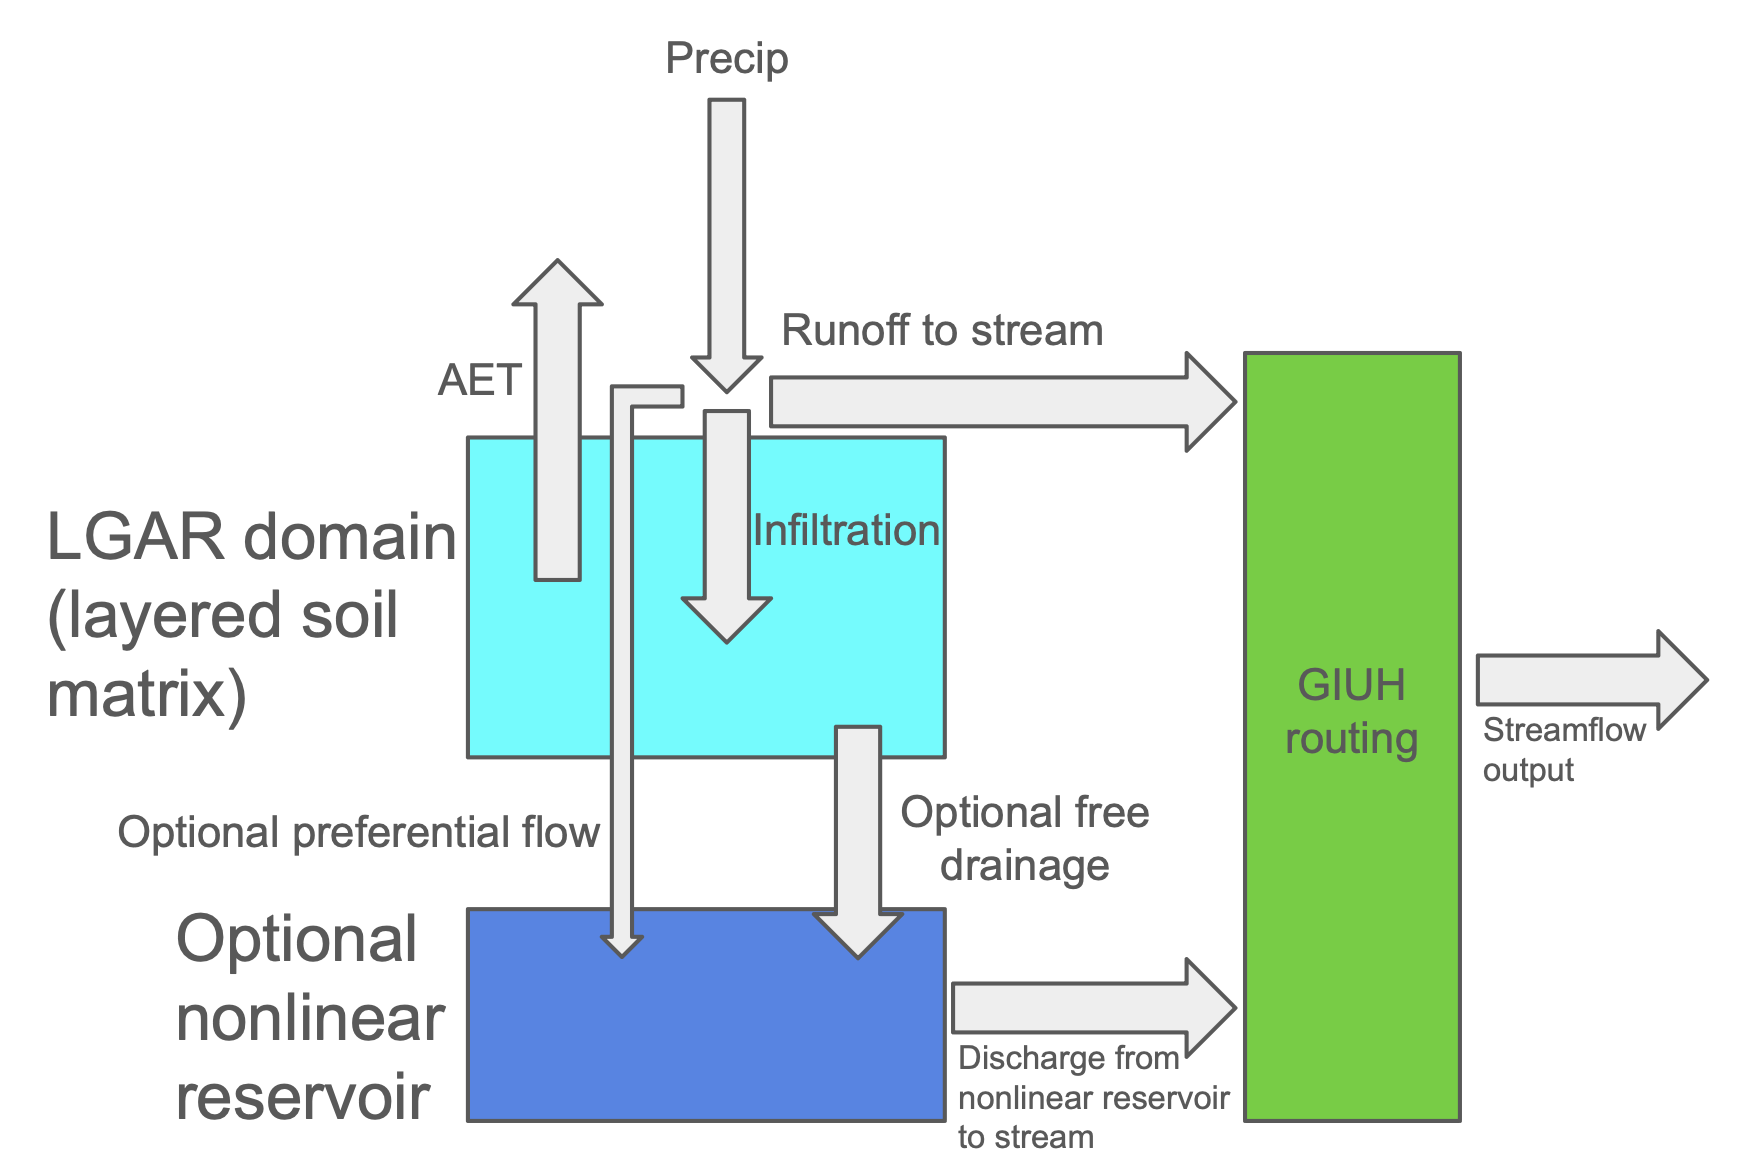
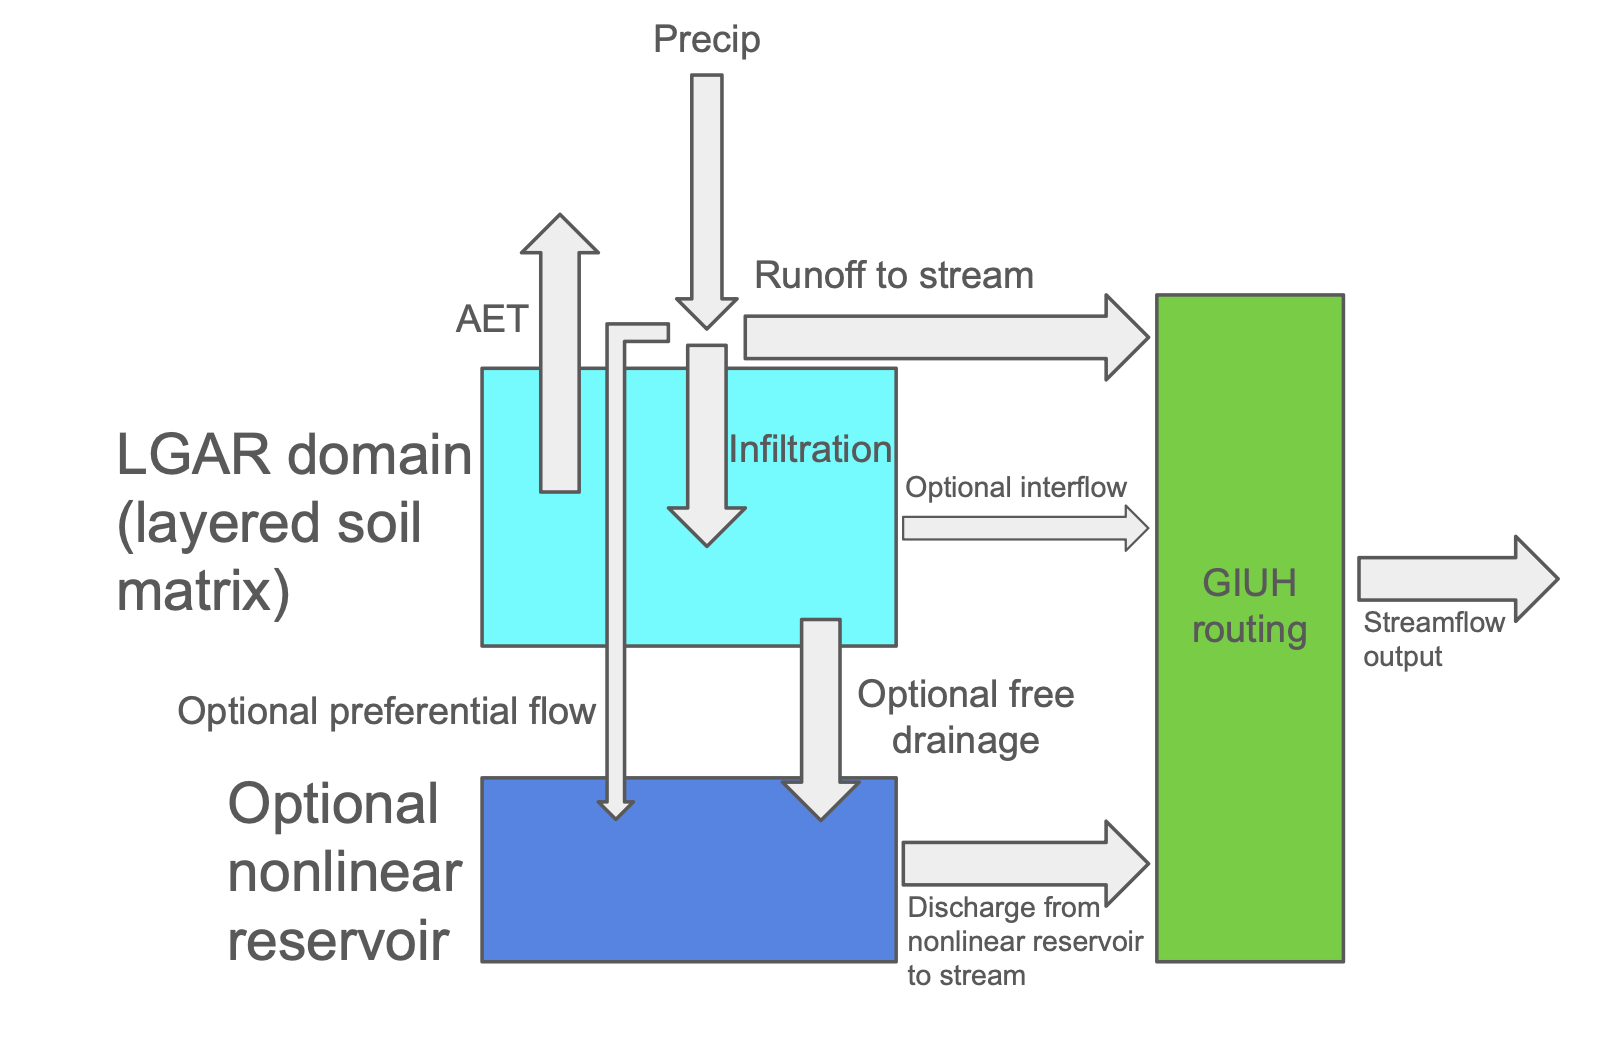
updating documentation to include lateral flow

Changed region(s): [[0.0312, 0.0312, 0.9988, 1.0]]

diff --git a/data/README.md b/data/README.md
@@ -14,6 +14,8 @@ It is recommended to calibrate:
 - `frac_to_CR`  
 - `spf_factor`
 
+If lateral flow, or interflow, from LGAR wetting fronts is part of the intended conceptual model, `lateral_flow_psi_threshold` and `lateral_flow_factor` can also be calibrated. These two parameters must be used together; omitting both disables lateral flow.
+
 Note that it is not necessarily recommended to calibrate maximum ponded head or theta_r.
 
 | Parameter name | Units |  Physical limits  | Range tested for stability | Applies to individual soil layers or entire model domain | Description |
@@ -25,10 +27,12 @@ Note that it is not necessarily recommended to calibrate maximum ponded head or 
 | Ks | cm/h | Ks > 0 | 0.0001 < K_s < 100 | Soil layer | Ks is the saturated hydraulic conductivity of a soil. Note that in nature, expected values of Ks are distributed logarithmically, so calibrating on the log of Ks rather than Ks directly is likely a better choice for most calibration algorithms. This is set per soil layer, in the .dat file in the data directory.|
 | ponded_head_max | cm | ponded_head_max >= 0 | 0 <= ponded_head_max <= 5 | Entire model domain | This is the maximum amount of ponded water that is allowed to accumulate on the soil surface. While stability tests have only included a maximum value of 5 cm, any value greater than or equal to 0 should be acceptable. A common choice will be 0. This parameter can be set in the config file.  |
 | field_capacity_psi | cm | 0 < field_capacity_psi, <br>field_capacity_psi < wilting_point_psi | 10 < field_capacity_psi < 500 | Entire model domain | This is the wilting point of the model domain, expressed as a capillary head. Together with wilting_point_psi, the field capacity is used to determine the intensity of the reduction of PET to become AET. The numbers 10.3 cm and 516.6 cm correspond to pressures of 1/100 atm and 1/2 atm of water. Note that the model generally uses absolute values of capillary head; in this case, these limits are absolute values of negative numbers and physically represent unsaturated soil. While field capacity will vary per soil type, we use a single value for the entire model domain, following the method for PET->AET correction used by HYDRUS. This parameter can be set in the config file. |
-| a | cm^(1-b) h^-1 | 0 < a | 1E-8 < a < 1E-1 | Applies to nonlinear reservoir | As of this writing (27 June 2025), CASAM fundamentally has two different types of water storage: water stored in the vadose zone that does not contribute to streamflow, and water stored in a nonlinear reservoir that does contribute to streamflow. The nonlinear reservoir has an input of simple bypass through the vadose zone (controlled by frac_to_CR and spf_factor). The nonlinear reservoir releases water to the stream at a rate of a*S^b, where S is the water stored in the reserovir in cm, and a and b are nonlinear reservoir parameters. Note that the units of a depend on the value of b. Defaults to 0. Also note that because a, b, and frac_to_CR all default to 0, all of these must be specified in the config file in order to enable the nonlinear reservoir. |
-| b | - | - | 0.01 < b < 5 | Applies to nonlinear reservoir | As of this writing (27 June 2025), CASAM fundamentally has two different types of water storage: water stored in the vadose zone that does not contribute to streamflow, and water stored in a nonlinear reservoir that does contribute to streamflow. The nonlinear reservoir has an input of simple bypass through the vadose zone (controlled by frac_to_CR and spf_factor). The nonlinear reservoir releases water to the stream at a rate of a*S^b, where S is the water stored in the reserovir in cm, and a and b are nonlinear reservoir parameters. Defaults to 0.  |
-| frac_to_CR | - | 0 <= frac_to_CR <= 1 | 1E-4 <= frac_to_CR <= 1 - 1E-4 | Applies to nonlinear reservoir | storage that contributes directly to streamflow | Simple bypass of water at the soil surface to the nonlinear conceptual reservoir will occur when the most superficial surface wetting front achieves the theta_e value of its layer times spf_factor. When this occurs, the amount of water sent to the nonlinear reservoir is equal to the precipitation plus any ponded water times frac_to_CR. This is a rather simple representation of preferential flow that intends to simulate the episodic nature of streamflow events in arid or semi arid environments. Note that either all or none of a, b, and frac_to_CR must be specified. If none are specified then the model will not simulate a nonlinear reservoir. Further, as of this writing (27 June 2025), fluxes from the lower boundary of the vadose zone do not contribute to the nonlinear reservoir and are said to be lost to deep GW. These fluxes should be rare in arid or semi arid environments and represent a wetting front partially crossing the model lower boundary, so the fraction that did technically contributes to fluxes through LGAR's lower boundary. Defaults to 0. Note that if a second reservoir is desired, a_slow, b_slow, and frac_slow can all be specified with the same ranges as a, b, and frac_to_CR, respectively, with the expection that frac_slow can not equal exactly 0.|
-| spf_factor | - | 0.0 <= spf_factor <= 1 | 0.1 <= spf_factor <= 1 | Applies to nonlinear reservoir | storage that contributes directly to streamflow | Simple bypass of surface water to the nonlinear reservoir will occur when the most superficial wetting front achieves the theta_e value of its layer times spf_factor. When this occurs, the amount of water sent to the nonlinear reservoir is equal to the precipitation plus any ponded water times frac_to_CR. This is a rather simple representation of preferential flow that intends to simulate the episodic nature of streamflow events in arid or semi arid environments. Defaults to 0.98. Specified in the config file. |
+| a | cm^(1-b) h^-1 | 0 < a | 1E-8 < a < 1E-1 | Applies to nonlinear reservoir | The nonlinear reservoir is one route by which catchment water storage contributes to streamflow. The nonlinear reservoir has an input of simple bypass through the vadose zone, controlled by frac_to_CR and spf_factor, and optionally free drainage if `free_drainage_to_CR=true` in the config file. The nonlinear reservoir releases water to the stream at a rate of a*S^b, where S is the water stored in the reservoir in cm, and a and b are nonlinear reservoir parameters. Note that the units of a depend on the value of b. Defaults to 0. Also note that because a, b, and frac_to_CR all default to 0, all of these must be specified in the config file in order to enable the nonlinear reservoir. |
+| b | - | - | 0.01 < b < 5 | Applies to nonlinear reservoir | The nonlinear reservoir is one route by which catchment water storage contributes to streamflow. The nonlinear reservoir has an input of simple bypass through the vadose zone, controlled by frac_to_CR and spf_factor, and optionally free drainage if `free_drainage_to_CR=true` in the config file. The nonlinear reservoir releases water to the stream at a rate of a*S^b, where S is the water stored in the reservoir in cm, and a and b are nonlinear reservoir parameters. Defaults to 0. |
+| frac_to_CR | - | 0 <= frac_to_CR <= 1 | 1E-4 <= frac_to_CR <= 1 - 1E-4 | Applies to nonlinear reservoir | Simple bypass of water at the soil surface to the nonlinear conceptual reservoir will occur when the most superficial surface wetting front achieves the theta_e value of its layer times spf_factor. When this occurs, the amount of water sent to the nonlinear reservoir is equal to the precipitation plus any ponded water times frac_to_CR. This is a simple representation of preferential flow that intends to simulate the episodic nature of streamflow events in arid or semi arid environments. Note that either all or none of a, b, and frac_to_CR must be specified. If none are specified then the model will not simulate a nonlinear reservoir. Free drainage contributes to the nonlinear reservoir only when `free_drainage_enabled=true` and `free_drainage_to_CR=true`; otherwise lower boundary free drainage is accounted as percolation/recharge leaving the LGAR domain. Defaults to 0. Note that if a second reservoir is desired, a_slow, b_slow, and frac_slow can all be specified with the same ranges as a, b, and frac_to_CR, respectively, with the exception that frac_slow can not equal exactly 0.|
+| spf_factor | - | 0.0 <= spf_factor <= 1 | 0.1 <= spf_factor <= 1 | Applies to nonlinear reservoir | Simple bypass of surface water to the nonlinear reservoir will occur when the most superficial wetting front achieves the theta_e value of its layer times spf_factor. When this occurs, the amount of water sent to the nonlinear reservoir is equal to the precipitation plus any ponded water times frac_to_CR. This is a simple representation of preferential flow that intends to simulate the episodic nature of streamflow events in arid or semi arid environments. Defaults to 0.98. Specified in the config file. |
+| lateral_flow_psi_threshold | cm | lateral_flow_psi_threshold >= 0 | lateral_flow_psi_threshold >= 0 | Entire model domain | Lateral flow/interflow from LGAR wetting fronts is enabled only when both lateral_flow_psi_threshold and lateral_flow_factor are specified. A wetting front can contribute lateral flow when its capillary head is less than or equal to this threshold. LGAR uses positive absolute capillary head values, so smaller psi values represent wetter conditions. In log_mode, this parameter is interpreted as a log10 value before validation. Defaults to disabled. |
+| lateral_flow_factor | - | 1.E-4 <= lateral_flow_factor <= 1.E4 | 1.E-4 <= lateral_flow_factor <= 1.E4 | Entire model domain | Lateral flow/interflow from LGAR wetting fronts is enabled only when both lateral_flow_psi_threshold and lateral_flow_factor are specified. Candidate lateral flow for an eligible wetting front is proportional to K(theta) times lateral_flow_factor, scaled by the fraction of the LGAR domain represented by that front. Lateral flow is removed from LGAR storage and routed through the GIUH with surface runoff, so water stored in the LGAR domain can conditionally contribute to streamflow when this process is enabled. In log_mode, this parameter is interpreted as a log10 value before validation. Defaults to disabled. |
 
 Parameters that are specified per soil layer can either be scalar values with double precision (in the event the model is run with 1 layer) or vectors of doubles (in the event that the model is run with more than 1 layer), whereas parameters that are specified for the entire model domain are scalars with double precision. 
 
@@ -52,4 +56,3 @@ Below is a table of parameters for soils from the HYDRUS soils catalog, which ca
 | Sandy Clay          | 0.1   | 0.38 | 0.027 | 1.23 | 0.12        |
 | Silty Clay          | 0.07  | 0.36 | 0.005 | 1.09 | 0.02        |
 | Clay                | 0.068 | 0.38 | 0.008 | 1.09 | 0.2         |
-

diff --git a/configs/README.md b/configs/README.md
@@ -3,6 +3,8 @@ Example configuration files are provided in this directory. To build and run the
 
 A detailed description of the parameters for model configuration (i.e., initialize/setup) is provided below. 
 
+CASAM streamflow can be produced by surface runoff routed through the GIUH, by optional nonlinear conceptual reservoir outflow, and by optional lateral flow, or interflow, from LGAR wetting fronts. When lateral flow is disabled, water stored in the LGAR vadose zone domain does not directly contribute to streamflow except through configured lower boundary or bypass pathways. When lateral flow is enabled, eligible wetting fronts can lose water laterally, and that lateral flow volume is routed through the GIUH with surface runoff.
+
 
 | Variable | Datatype |  Limits  | Units | Role | Process | Description |
 | -------- | -------- | ------ | ----- | ---- | ------- | ----------- |
@@ -27,14 +29,16 @@ A detailed description of the parameters for model configuration (i.e., initiali
 | adaptive_timestep | Boolean | true, false | - | adaptive timestep flag | impacts timestep | If set to true, LGAR will use an internal adaptive timestep, and the above timestep is used as a minimum timestep (recommended value of 300 seconds). The adaptive timestep will never be larger than the forcing resolution. If set to false, LGAR will use the above specified timestep as a fixed timestep. Testing indicates that setting this value to true substantially decreases runtime while negligibly changing the simulation. We recommend this to be set to true. |
 | free_drainage_enabled | Boolean | true, false | - | controls lower boundary condition | affects recharge | If free_drainage_enabled is true, then free drainage will be enabled as the lower boundary condition, where fluxes from the vadose zone to groundwater are controlled by the hydraulic conductivity at the bottom of the model domain. If free_drainage_enabled is set to false, then the lower boundary condition will be no flow. If LGAR is used in an area with substantially more PET than precipitation, the choice of no flow vs free drainage should be less impactful, because the majority of water that leaves the vadose zone will do so as AET. Defaults to false.|
 | free_drainage_to_CR | Boolean | true, false | - | controls lower boundary condition | affects recharge | If this is set to true, then free drainage water will contribute to the conceptual reservoir. Defaults to false.|
+| lateral_flow_psi_threshold | double (scalar) | >=0 | cm | parameter for wetting front lateral flow/interflow | vadose storage that contributes directly to streamflow | Lateral flow is enabled only when both lateral_flow_psi_threshold and lateral_flow_factor are specified. A wetting front can contribute lateral flow when its capillary head is less than or equal to this threshold. LGAR uses positive absolute capillary head values, so smaller psi values represent wetter conditions. Aliases accepted by the config parser are lateral_flow_psi_threshold_cm and lateral_flow_threshold_psi. Defaults to disabled.|
+| lateral_flow_factor | double (scalar) | 1.E-4 <= lateral_flow_factor <= 1.E4 | - | parameter for wetting front lateral flow/interflow | vadose storage that contributes directly to streamflow | Lateral flow is enabled only when both lateral_flow_psi_threshold and lateral_flow_factor are specified. Candidate lateral flow for an eligible wetting front is proportional to K(theta) times lateral_flow_factor, scaled by the fraction of the LGAR domain represented by that front. Lateral flow is removed from LGAR storage and routed through the GIUH with surface runoff. Defaults to disabled.|
 | mbal_tol | double (scalar) | >0 | cm | mass balance error resulting from a substep that will trigger a model crash | mass balance accounting | If the mass balance error is greater than this number in a single substep, then the model will abort. Global mass balance errors over the course of year long simulations (i.e. the sum of all mass balance errors over the course of a long simulation) tend to be small, where a value greater than 1E-4 cm tends to be rare, occuring less than 1 in 10000 prameter sets. LGAR in theory should both be mass conservative, however the presence of unlikely but possible edge cases can cause mass balance errors. Flux caching can also cause small mass balance errors. While the model will usually converge with a small mbal_tol value, if general convergence is desired across a large number of parameter sets / forcing datasets, then we recommend that this value is not specified and therefore the default value of 1E1cm will be used. |
 | PET_affects_precip | Boolean | true, false | - | specifies whether PET is subtracted from precip | forcing data manipulation | If enabled, then PET will be subtracted from precipitation. Defaults to false.|
-| a | double (scalar) | 1E-8 < a < 1E-1 | cm^(1-b) h^-1 | parameter for nonlinear reservoir | storage that contributes directly to streamflow | CASAM fundamentally has two different types of water storage: water stored in the vadose zone that does not contribute to streamflow, and water stored in a nonlinear reservoir that does contribute to streamflow. The nonlinear reservoir has an input of simple bypass through the vadose zone (controlled by frac_to_CR and spf_factor), and free drainage if desired. The nonlinear reservoir releases water to the stream at a rate of a*S^b, where S is the water stored in the reserovir in cm, and a and b are nonlinear reservoir parameters. Note that the units of a depend on the value of b. Defaults to 0.|
-| b | double (scalar) | 0.01 < b < 5 | - | parameter for nonlinear reservoir | storage that contributes directly to streamflow | CASAM fundamentally has two different types of water storage: water stored in the vadose zone that does not contribute to streamflow, and water stored in a nonlinear reservoir that does contribute to streamflow. The nonlinear reservoir has an input of simple bypass through the vadose zone (controlled by frac_to_CR and spf_factor), and free drainage if desired. The nonlinear reservoir releases water to the stream at a rate of a*S^b, where S is the water stored in the reserovir in cm, and a and b are nonlinear reservoir parameters. Defaults to 0.|
+| a | double (scalar) | 1E-8 < a < 1E-1 | cm^(1-b) h^-1 | parameter for nonlinear reservoir | storage that contributes directly to streamflow | The nonlinear reservoir is one route by which catchment water storage contributes to streamflow. Its input can include simple bypass through the vadose zone, controlled by frac_to_CR and spf_factor, and free drainage if desired. The nonlinear reservoir releases water to the stream at a rate of a*S^b, where S is the water stored in the reservoir in cm, and a and b are nonlinear reservoir parameters. Note that the units of a depend on the value of b. Defaults to 0.|
+| b | double (scalar) | 0.01 < b < 5 | - | parameter for nonlinear reservoir | storage that contributes directly to streamflow | The nonlinear reservoir is one route by which catchment water storage contributes to streamflow. Its input can include simple bypass through the vadose zone, controlled by frac_to_CR and spf_factor, and free drainage if desired. The nonlinear reservoir releases water to the stream at a rate of a*S^b, where S is the water stored in the reservoir in cm, and a and b are nonlinear reservoir parameters. Defaults to 0.|
 | frac_to_CR | double (scalar) | 0.0 <= frac_to_CR <= 1 | - | parameter for nonlinear reservoir | storage that contributes directly to streamflow | Simple bypass of water at the soil surface to the nonlinear conceptual reservoir will occur when the most superficial surface wetting front achieves the theta_e value of its layer times spf_factor. When this occurs, the amount of water sent to the nonlinear reservoir is equal to the precipitation plus any ponded water times frac_to_CR. This is a rather simple representation of preferential flow that intends to simulate the episodic nature of streamflow events in arid or semi arid environments. Note that either all or none of a, b, and frac_to_CR must be specified. If none are specified then the model will not simulate a nonlinear reservoir. Defaults to 0.|
 | spf_factor | double (scalar) | 0.1 <= spf_factor <= 1 | - | parameter for fluxes to nonlinear reservoir | storage that contributes directly to streamflow | Simple bypass of surface water to the nonlinear reservoir will occur when the most superficial wetting front achieves the theta_e value of its layer times spf_factor. When this occurs, the amount of water sent to the nonlinear reservoir is equal to the precipitation plus any ponded water times frac_to_CR. This is a rather simple representation of preferential flow that intends to simulate the episodic nature of streamflow events in arid or semi arid environments. Defaults to 0.98. |
-| allow_flux_caching | Boolean | true, false | - | trades a small amount of accuracy for a lot of speed | flux caching | During dry periods, it is often the case that wetting fronts will move very slowly and AET will be significantly less than PET. In these cases, in the context of streamflow simulation, it is not efficient to recompute fluxes and soil moisture dynamics for each time step. If this is set to true, then fluxes and wetting front movement will only be recomputed once every 24 hours, or when the conditions resulting in dry and slow wetting fronts and low AET cease. During the times for which fluxes are not recomputed, instead they are stored in a cache and fluxes for subsequent time steps are set using this cache. Sligtly different strategies are used for fluxes through the lower boundary and AET. Also note that because NextGen models should ideally provide output for each hour, simply setting an adaptive time step to be larger than one hour is not a preferred runtime reduction method here. Note that this can cause small mass balance errors when the lower boundary condition is set to free drainage. Defaults to false. |
-| log_mode | Boolean | true, false | - | helps calibration search space exploration | log transform of parameters | When this is set to true, then all inputs for the van Genuchten parameter alpha, saturated hydraulic conductivity, and the nonlinear reservoir parameter a must be input as their log values rather than the normal values. For example, if an saturated hydraulic conductivity of 0.1 cm/h is desired, then the input value must be -1 because 10^-1 = 0.1. The reasoning for this is that these parameters are not distributed normally in nature but rather are distributed log normally, such that simply sampling the parameter space normally during calibration will vastly undersample a big region of the parameter space in which we expect useful parameter sets to be. Defaults to false. |
+| allow_flux_caching | Boolean | true, false | - | trades a small amount of accuracy for a lot of speed | flux caching | During dry periods, it is often the case that wetting fronts will move very slowly and AET will be significantly less than PET. In these cases, in the context of streamflow simulation, it is not efficient to recompute fluxes and soil moisture dynamics for each time step. If this is set to true, then fluxes and wetting front movement will only be recomputed once every 24 hours, or when the conditions resulting in dry and slow wetting fronts and low AET cease. During the times for which fluxes are not recomputed, instead they are stored in a cache and fluxes for subsequent time steps are set using this cache. Sligtly different strategies are used for fluxes through the lower boundary and AET. Flux caching is disabled whenever lateral flow is enabled and at least one wetting front is eligible to contribute lateral flow. Also note that because NextGen models should ideally provide output for each hour, simply setting an adaptive time step to be larger than one hour is not a preferred runtime reduction method here. Note that this can cause small mass balance errors when the lower boundary condition is set to free drainage. Defaults to false. |
+| log_mode | Boolean | true, false | - | helps calibration search space exploration | log transform of parameters | When this is set to true, then all inputs for the van Genuchten parameter alpha, saturated hydraulic conductivity, the nonlinear reservoir parameter a, lateral_flow_psi_threshold, and lateral_flow_factor must be input as their log10 values rather than the normal values. For example, if an saturated hydraulic conductivity of 0.1 cm/h is desired, then the input value must be -1 because 10^-1 = 0.1. The reasoning for this is that these parameters are not distributed normally in nature but rather are distributed log normally, such that simply sampling the parameter space normally during calibration will vastly undersample a big region of the parameter space in which we expect useful parameter sets to be. Defaults to false. |
 | a_slow | double (scalar) | 1E-8 < a_slow < 1E-1 | cm^(1-b) h^-1 | parameter for second nonlinear reservoir | storage that contributes directly to streamflow | This is exactly like the parameter a, except it corresponds to a second nonlinear reservoir, which was added to simulate cases where receding limbs have behaviors that can not easily be captured by one reservoir. Defaults to 0.|
 | b_slow | double (scalar) | 0.01 < b_slow < 5 | - | parameter for second nonlinear reservoir | storage that contributes directly to streamflow | This is exactly like the parameter b, except it corresponds to a second nonlinear reservoir, which was added to simulate cases where receding limbs have behaviors that can not easily be captured by one reservoir. Defaults to 0.|
 | frac_slow | double (scalar) | 0.0 < frac_slow <= 1 | - | parameter for second nonlinear reservoir | storage that contributes directly to streamflow | This describes the partitioning of water to the two reservoris, where the the input to the slow reservoir is equal to the total input for the nonlinear reservoirs times frac_slow. Note that either all or none of a_slow, b_slow, and frac_slow must be specified. If none are specified then the model will not simulate a second nonlinear reservoir. Defaults to 0.|

diff --git a/README.md b/README.md
@@ -1,7 +1,7 @@
 # Catchment Arid/Semi-arid Model (CASAM) for streamflow simulation
 CASAM (formerly known as LASAM) is a catchment scale hydrolgic model originally designed for arid or semi arid areas, in which the partitioning of precipitation into infiltration and runoff is important. CASAM is composed of a vadose zone model, which is Layered Green & Ampt with redistribution (LGAR) and represents a layered soil matrix, and a nonlinear reservoir which is filled via a simple formulation for preferential flow. LGAR is a model which partitions precipitation into infiltration and runoff, and is designed for use in arid or semi-arid climates. LGAR closely mimics precipitation partitioning results simulated by the Richards/Richardson equation (RRE), without the inherent reliability and stability challenges the RRE poses. Therefore, this model is useful when accurate, stable precipitation partitioning simulations are desired in arid or semi-arid areas. LGAR in Python (no longer supported) is available [here](https://github.com/NOAA-OWP/LGAR-Py).
 
-CASAM is theoretically a skillful catchment scale hydrolgic model in the event that precipitation partitioning into infiltration and runoff is the most important process for streamflow generation in a given catchment. Nonetheless, CASAM also includes a nonlinear reservoir so that some water stored in the catchment can contribute directly to streamflow (currently, we assume soil water does not directly contribute to streamflow).
+CASAM is theoretically a skillful catchment scale hydrolgic model in the event that precipitation partitioning into infiltration and runoff is the most important process for streamflow generation in a given catchment. Nonetheless, CASAM also includes a nonlinear reservoir and interflow so that some water stored in the catchment can contribute directly to streamflow.
 
 ![Alt text](CASAM_diagram.png)
 